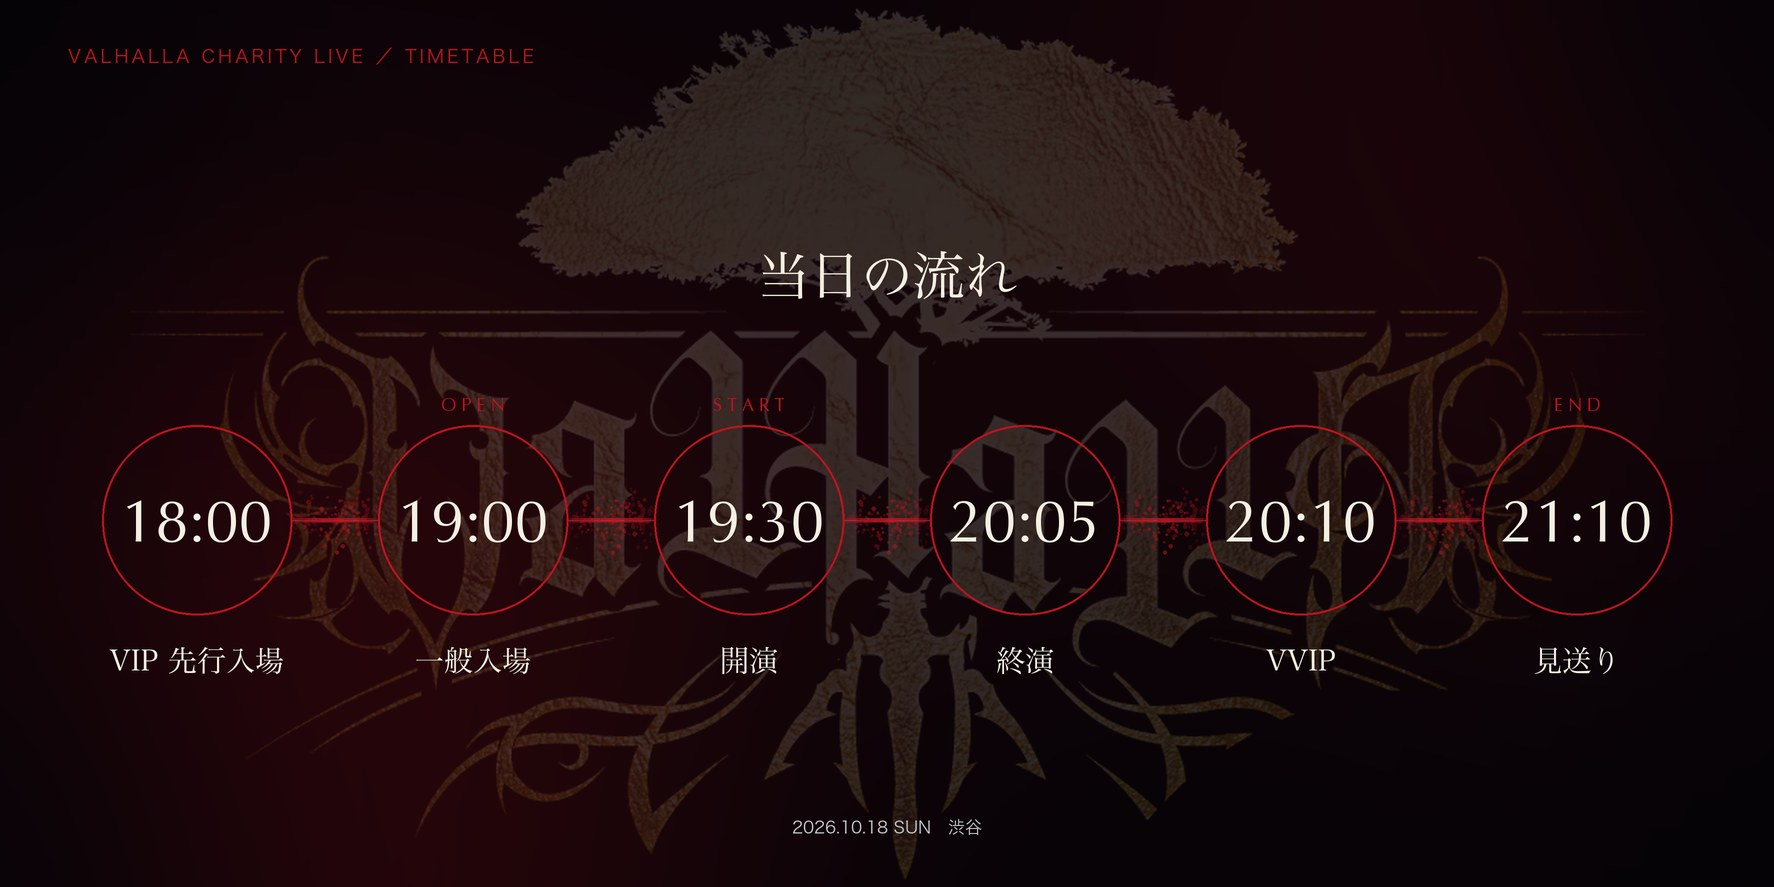
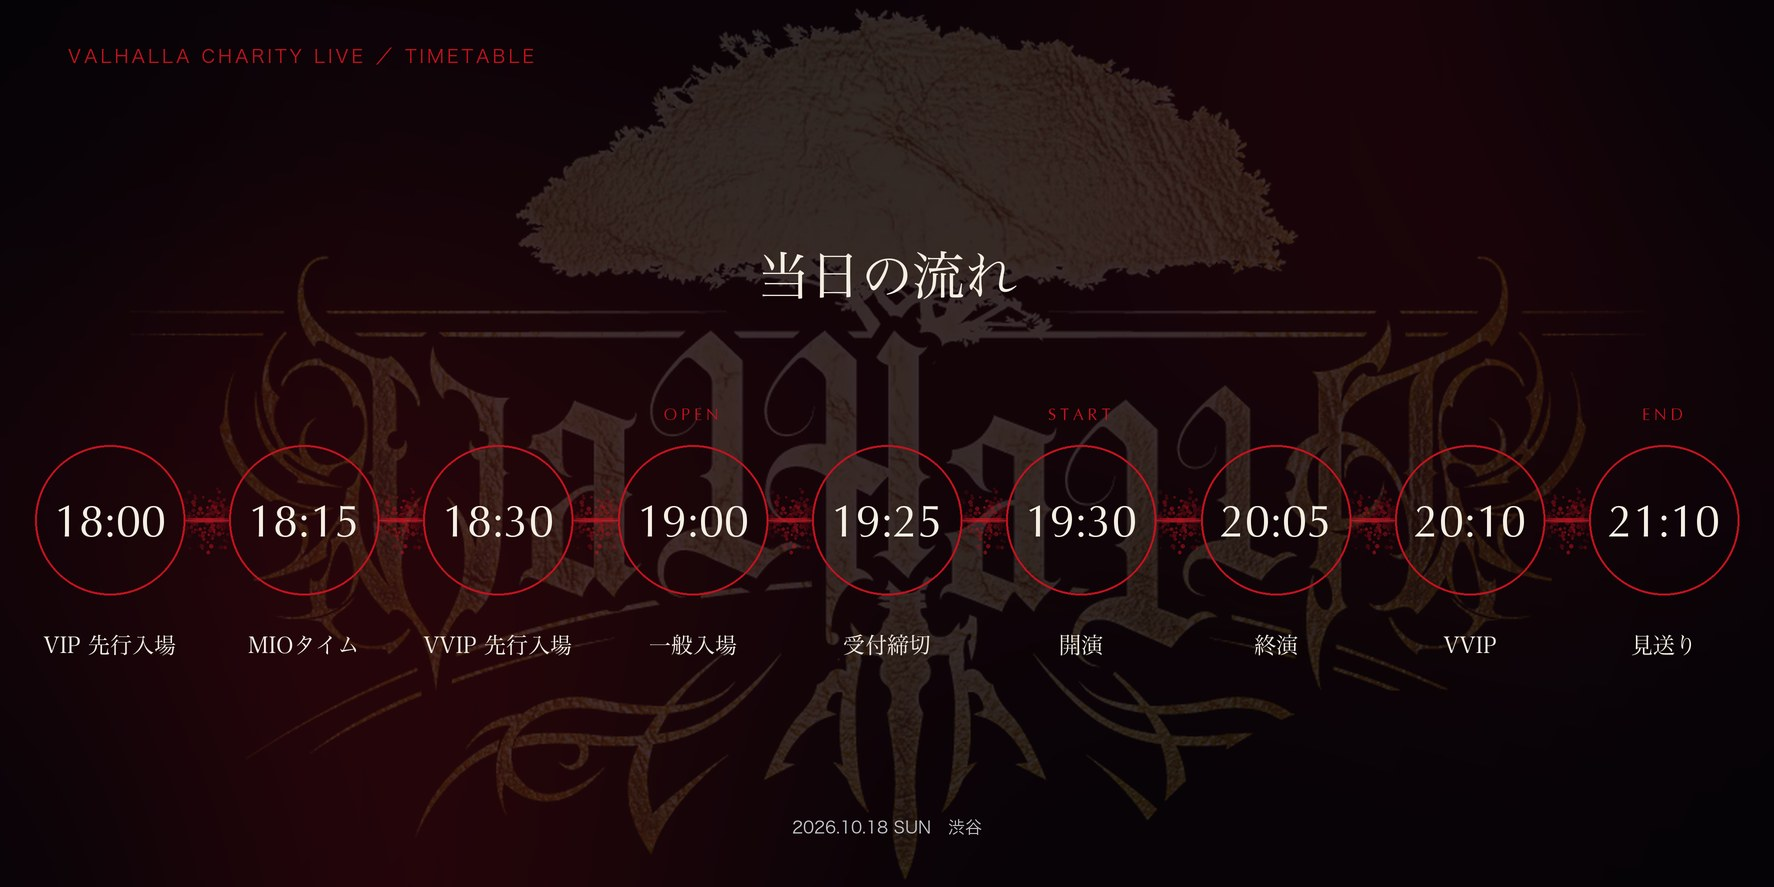
charity: name the 300-favourite reward once, and let the figure say what the text says
The pre-launch campaign was promising three different things depending
on which file you opened: a sticker, a thank-you video, a message video.
Settle on 限定メッセージ動画 everywhere, including the two places that
still described the contents of a sticker sheet.

The timetable figure showed six moments while the body listed nine. A
reader who only looked at the picture would miss the VVIP early entry
and the reception cutoff, so draw all nine and derive the spacing from
the count instead of hard-coding it.

diff --git a/docs/campfire-returns-list-send.html b/docs/campfire-returns-list-send.html
@@ -323,14 +323,14 @@
   </table>
 </div>
 <h2>公開前キャンペーン（お気に入り登録300件）</h2>
-<p class="lead" style="margin-bottom:16px"><b>お気に入り登録が300件に達したら、MIO からのお礼動画（約1分）（デジタル）を
+<p class="lead" style="margin-bottom:16px"><b>お気に入り登録が300件に達したら、限定メッセージ動画（約1分・デジタル）を
 LINE公式で全員に配布します。</b>先着ではありません。<br>
 公開時にお気に入り登録者へ CAMPFIRE から通知が飛ぶので、ここで貯めた数がそのまま初日の支援数になります。</p>
 <div class="course">
   <table class="items">
     <tbody>
       <tr class="grp"><td colspan="2">決まっていること</td></tr>
-      <tr><td class="what"><b>MIO からのお礼動画（約1分）（電子媒体）</b><span class="tag fix">確定</span>
+      <tr><td class="what"><b>限定メッセージ動画（約1分・電子媒体）</b><span class="tag fix">確定</span>
         <span class="note">現物の郵送はしない</span></td>
         <td class="when">オンライン</td></tr>
       <tr><td class="what"><b>先着ではなく全員に配る</b><span class="tag fix">確定</span>
@@ -357,8 +357,8 @@ LINE公式で全員に配布します。</b>先着ではありません。<br>
       <tr><td class="what">300件に届かなかった場合<span class="tag tbd">要確定</span>
         <span class="note"><b>先に明記しておくこと。</b>配らないのか、未達でも配るのか。後出しは信用を落とす</span></td>
         <td class="when">—</td></tr>
-      <tr><td class="what">お礼動画の中身<span class="tag tbd">要確定</span>
-        <span class="note">画像1枚か、複数種か、壁紙サイズも付けるか</span></td><td class="when">—</td></tr>
+      <tr><td class="what">限定メッセージ動画の中身<span class="tag tbd">要確定</span>
+        <span class="note">尺・話す内容・撮影日</span></td><td class="when">—</td></tr>
       <tr><td class="what">達成の見せ方<span class="tag tbd">要確定</span>
         <span class="note">現在の件数を SNS で出していくと、<b>達成が近いほど登録が伸びる</b></span></td>
         <td class="when">—</td></tr>

diff --git a/charity.html b/charity.html
@@ -416,7 +416,7 @@
   <div class="prelaunch">
     <b>公開前キャンペーン</b>
     CAMPFIRE の<b>お気に入り登録が300件</b>に達したら、
-    限定オリジナルステッカー（デジタル）を <b>LINE公式で全員に配布</b>します。
+    <b>限定メッセージ動画</b>（約1分・デジタル）を <b>LINE公式で全員に配布</b>します。
     <span class="tbd">【締切・内容は調整中】</span>
   </div>
 </header>

diff --git a/assets/charity/create_timetable_banner.py b/assets/charity/create_timetable_banner.py
@@ -160,9 +160,13 @@ def ring(draw: ImageDraw.ImageDraw, center: tuple[int, int], diameter: int,
 
 
 def add_nodes(base: Image.Image) -> None:
-    # Five equal-size nodes on an exact 345 px rhythm, centered on the canvas.
-    centers_x = (197, 473, 749, 1025, 1301, 1577)
-    cy, diameter = 520, 190
+    # 本文の #TIME 行と 1:1 で対応させる（9点）。図だけ少ないと読み手がずれる。
+    # 左右マージン 110、等間隔ピッチで並べる。
+    MARGIN = 110
+    STEPS = 9
+    pitch = (W - MARGIN * 2) / (STEPS - 1)
+    centers_x = tuple(round(MARGIN + pitch * i) for i in range(STEPS))
+    cy, diameter = 520, 150
 
     # Keep the crimson ribbon strictly between adjacent circles.
     radius = diameter // 2
@@ -179,20 +183,22 @@ def add_nodes(base: Image.Image) -> None:
     base.alpha_composite(layer)
 
     td = ImageDraw.Draw(base)
-    cue_font = face(LATIN, 18)
-    time_font = face(LATIN, 60)
-    label_font = face(MINCHO, 29)
-    cues = ("", "OPEN", "START", "", "", "END")
-    times = ("18:00", "19:00", "19:30", "20:05", "20:10", "21:10")
-    labels = ("VIP 先行入場", "一般入場", "開演", "終演", "VVIP", "見送り")
+    cue_font = face(LATIN, 16)
+    time_font = face(LATIN, 45)
+    label_font = face(MINCHO, 22)
+    cues = ("", "", "", "OPEN", "", "START", "", "", "END")
+    times = ("18:00", "18:15", "18:30", "19:00", "19:25",
+             "19:30", "20:05", "20:10", "21:10")
+    labels = ("VIP 先行入場", "MIOタイム", "VVIP 先行入場", "一般入場", "受付締切",
+              "開演", "終演", "VVIP", "見送り")
     for x, cue, time, label in zip(centers_x, cues, times, labels):
         if cue:
             cue_width = sum(td.textlength(char, font=cue_font) for char in cue)
             cue_width += 5 * SCALE * (len(cue) - 1)
-            draw_tracked(td, (round(x - cue_width / (2 * SCALE)), 394), cue,
-                         cue_font, CRIMSON, 5)
+            draw_tracked(td, (round(x - cue_width / (2 * SCALE)), 405), cue,
+                         cue_font, CRIMSON, 4)
         td.text(spos((x, cy + 2)), time, font=time_font, fill=CREAM, anchor="mm")
-        td.text(spos((x, 660)), label, font=label_font, fill=CREAM, anchor="mm")
+        td.text(spos((x, 645)), label, font=label_font, fill=CREAM, anchor="mm")
 
 
 def add_typography(base: Image.Image) -> None:

diff --git a/docs/line-official-setup.md b/docs/line-official-setup.md
@@ -114,7 +114,7 @@ VALHALLA CHARITY LIVE の公式アカウントです。
 | 締切／いつまで | 「来場コースのお申し込みは10月12日（日）23:59まで。シンプル応援は10月31日（土）までです」 |
 | リターン／コース | コース一覧＋CAMPFIRE の URL |
 | 時間／当日 | 当日の流れ（17:45〜21:10） |
-| ステッカー | 「お気に入り登録が300件に達したら、このアカウントで全員にお配りします」 |
+| 限定メッセージ動画 | 「お気に入り登録が300件に達したら、このアカウントで全員にお配りします」 |
 
 ---
 
@@ -123,7 +123,7 @@ VALHALLA CHARITY LIVE の公式アカウントです。
 | いつ | 内容 | 想定通数（友だち300人） |
 |---|---|---|
 | 公開日 | 「公開しました」＋URL | 300 |
-| 300件達成時 | 限定ステッカー配布 | 300 |
+| 300件達成時 | 限定メッセージ動画を配布 | 300 |
 | 10月10日ごろ | 来場コース締切のリマインド | 300 |
 | 10月17日 | チケットの確認・当日のご案内 | 300 |
 | | **合計** | **1,200通** |
@@ -147,7 +147,7 @@ VALHALLA CHARITY LIVE の公式アカウントです。
 1. **合言葉**（限定名刺の受け取りキーワード）
 2. **限定名刺のデジタル版の形式**（画像／PDF／限定URL）※ 本文でも〔調整中〕のまま
 3. **名刺データの置き場所**（LINEに直接添付するか、URLで渡すか）
-4. **ステッカーの締切と、300件未達のときの扱い** ※ 本文でも未記載
+4. **限定メッセージ動画の締切と、300件未達のときの扱い** ※ 本文でも未記載
 5. **リッチメニューの画像**（2500×1686px・本文図版と同じ地で作れる）
 6. **有人対応の担当と時間帯**（「順次お返事します」と書くなら、誰が返すか）
 

diff --git a/docs/prep-checklist.md b/docs/prep-checklist.md
@@ -91,7 +91,7 @@
 
 | # | もの | いつ |
 |---|---|---|
-| 30 | **MIO からのお礼動画（約1分）** | お気に入り300件達成時。LINE で配布 |
+| 30 | **限定メッセージ動画（約1分・デジタル）** | お気に入り300件達成時。LINE で配布 |
 | 31 | **限定名刺（デジタル版）** | シンプル応援。形式未定 |
 | 32 | 公式LINE の設定 | あいさつ文・応答メッセージ・リッチメニュー |
 
